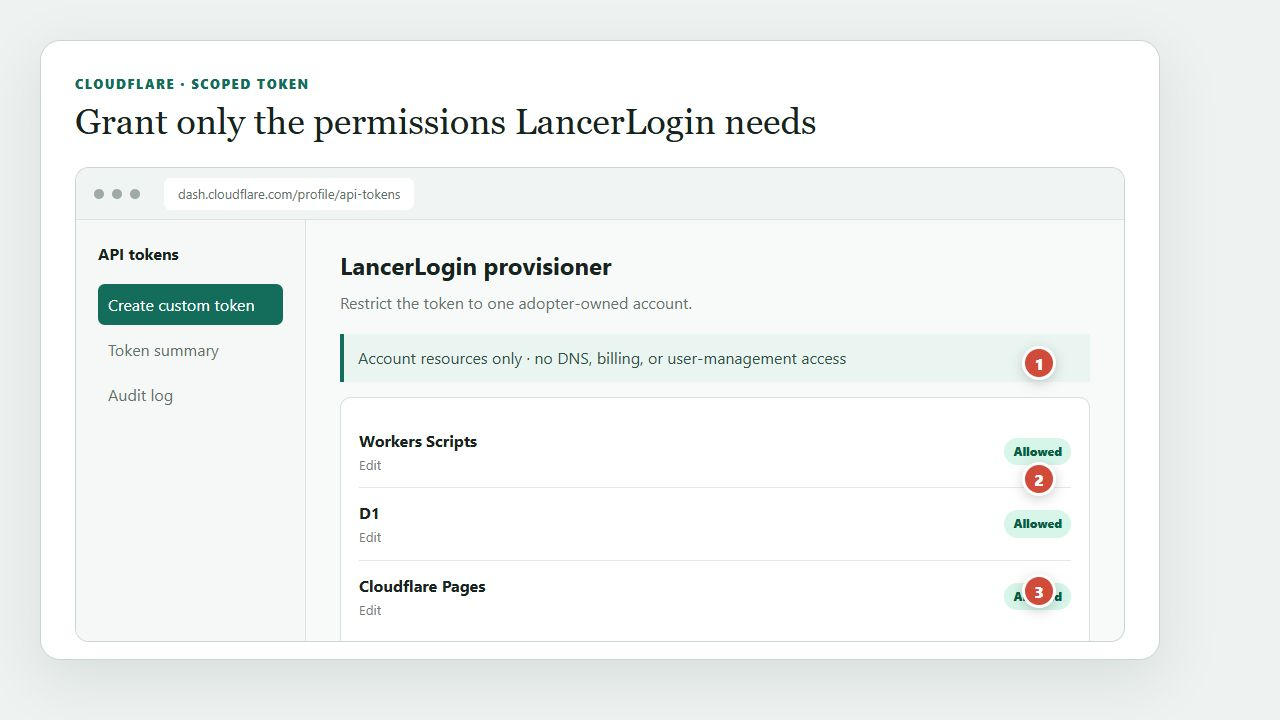
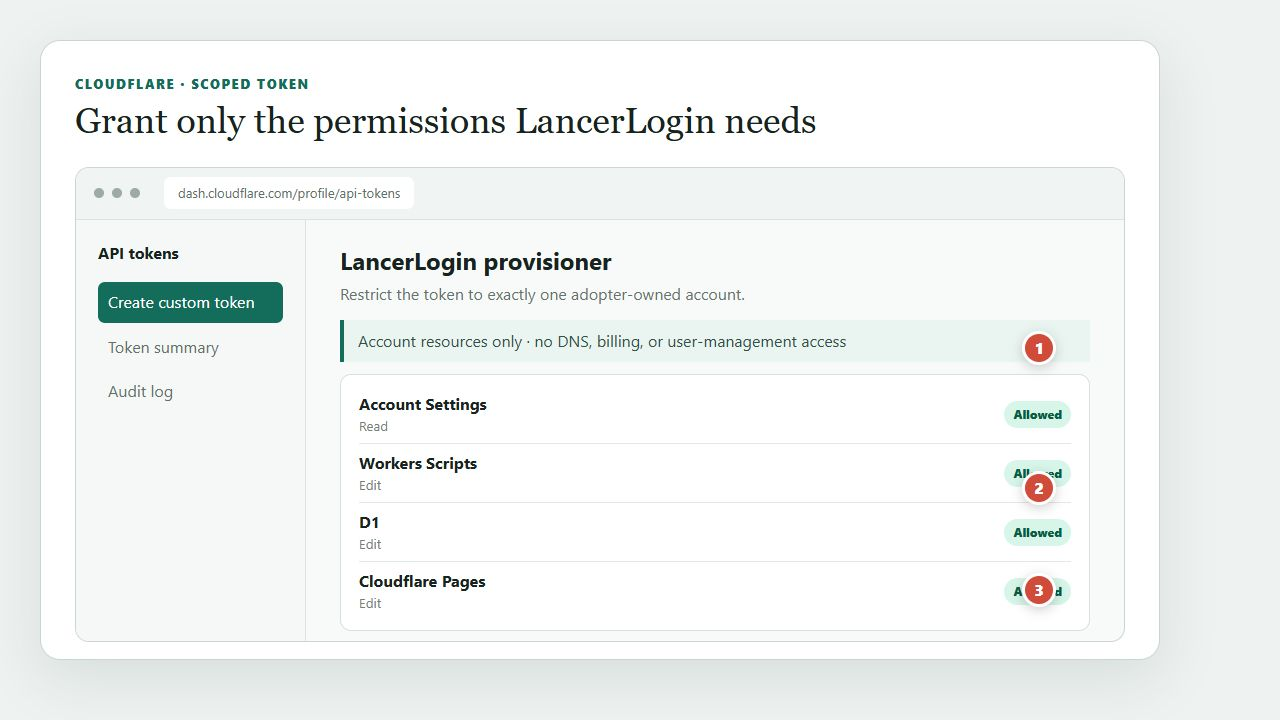
Harden adopter provisioning and release flow

diff --git a/apps/dashboard/src/setup-workspace.tsx b/apps/dashboard/src/setup-workspace.tsx
@@ -6,6 +6,7 @@ import { PrivacySettings } from "./privacy-settings";
 import { DataSettings } from "./data-settings";
 
 const apiBaseUrl = (import.meta.env.VITE_API_BASE_URL as string | undefined)?.replace(/\/$/, "") ?? "";
+const installerUrl = "https://github.com/isriah/LancerLogin/releases/latest/download/install-lancerlogin.sh";
 const steps = [
   ["branding", "Brand your installation", "Set the organization name, optional subtitle/logo, colors, and appearance."],
   ["roster", "Import your roster", "Add the people who can attend. You can update matching member IDs later."],
@@ -97,7 +98,7 @@ export function SetupWorkspace({ initialBranding, onBrandingChanged, onSignedOut
       <div className="workspace-grid">
         <form className="task-card" onSubmit={saveBranding}><p className="kicker">Branding</p><h2>Make it yours</h2><label>Organization name<input required maxLength={100} value={branding.organizationName} onChange={(event) => setBranding({ ...branding, organizationName: event.target.value })} /></label><label>Subtitle <span>(optional)</span><input maxLength={140} value={branding.subtitle ?? ""} onChange={(event) => setBranding({ ...branding, subtitle: event.target.value })} /></label><label>Logo image <span>(optional, stored in D1)</span><input type="file" accept="image/png,image/jpeg,image/webp" onChange={(event) => void chooseLogo(event.target.files?.[0])} /></label>{branding.logoData && <div className="logo-preview"><img src={branding.logoData} alt="Current organization logo preview" /><button type="button" onClick={() => setBranding({ ...branding, logoData: "" })}>Remove logo</button></div>}<div className="color-grid"><label>Primary<input type="color" value={branding.primaryColor} onChange={(event) => setBranding({ ...branding, primaryColor: event.target.value })} /></label><label>Secondary<input type="color" value={branding.secondaryColor} onChange={(event) => setBranding({ ...branding, secondaryColor: event.target.value })} /></label></div><label>Appearance<select value={branding.appearance} onChange={(event) => setBranding({ ...branding, appearance: event.target.value as Branding["appearance"] })}><option value="system">Follow device</option><option value="light">Light</option><option value="dark">Dark</option></select></label><button className="primary-button" type="submit">Save branding</button></form>
         <form className="task-card" onSubmit={importRoster}><p className="kicker">Roster</p><h2>Import members</h2><p>Paste CSV with the required headers. Matching member IDs are safely updated. Add an optional Discord user ID to link a member for pings and contests.</p><label>Roster CSV<textarea rows={9} value={rosterText} onChange={(event) => setRosterText(event.target.value)} /></label><button className="primary-button" type="submit">Validate and import</button><p className="record-count">{members.length} active roster record{members.length === 1 ? "" : "s"}</p></form>
-        <section className="task-card pairing-card"><p className="kicker">Kiosk pairing</p><h2>{activeKiosk ? "Replace the paired kiosk" : "Create a one-time code"}</h2><p>The code expires in 10 minutes and can be redeemed once. It never contains a fingerprint template or Cloudflare credential.</p>{activeKiosk && <div className="replacement-notice"><strong>{activeKiosk.name} is active.</strong><span>LancerLogin supports one kiosk. It remains active until the replacement code is redeemed.</span><label><input type="checkbox" checked={replaceKiosk} onChange={(event) => setReplaceKiosk(event.target.checked)} /> I understand redeeming this code disables {activeKiosk.name}.</label></div>}<label>Kiosk name<input maxLength={80} value={kioskName} onChange={(event) => setKioskName(event.target.value)} /></label><button className="primary-button" type="button" disabled={Boolean(activeKiosk) && !replaceKiosk} onClick={createPairingCode}>{activeKiosk ? "Create replacement code" : "Create pairing code"}</button>{pairing && <div className="pairing-code" aria-live="polite"><span>Enter in the Pi installer</span><strong>{pairing.code}</strong><small>Expires {new Date(pairing.expiresAt).toLocaleTimeString()}</small></div>}</section>
+        <section className="task-card pairing-card"><p className="kicker">Kiosk pairing</p><h2>{activeKiosk ? "Replace the paired kiosk" : "Create a one-time code"}</h2><p>Download the release installer on the Pi, preview it with <code>--dry-run</code>, then run it with <code>--install</code>. No Git clone or source edits are required.</p><a className="installer-link" href={installerUrl}>Download guided Pi installer</a><p>The code expires in 10 minutes and can be redeemed once. It never contains a fingerprint template or Cloudflare credential.</p>{activeKiosk && <div className="replacement-notice"><strong>{activeKiosk.name} is active.</strong><span>LancerLogin supports one kiosk. It remains active until the replacement code is redeemed.</span><label><input type="checkbox" checked={replaceKiosk} onChange={(event) => setReplaceKiosk(event.target.checked)} /> I understand redeeming this code disables {activeKiosk.name}.</label></div>}<label>Kiosk name<input maxLength={80} value={kioskName} onChange={(event) => setKioskName(event.target.value)} /></label><button className="primary-button" type="button" disabled={Boolean(activeKiosk) && !replaceKiosk} onClick={createPairingCode}>{activeKiosk ? "Create replacement code" : "Create pairing code"}</button>{pairing && <div className="pairing-code" aria-live="polite"><span>Enter in the Pi installer</span><strong>{pairing.code}</strong><small>Expires {new Date(pairing.expiresAt).toLocaleTimeString()}</small></div>}</section>
       </div>
     </>}
     <AttendanceWorkspace embedded />

diff --git a/docs-site/setup.html b/docs-site/setup.html
@@ -7,9 +7,9 @@
 <header class="page-header"><div><p class="eyebrow">Task 1</p><h1>Create your installation</h1><p>Nothing in this flow uses or discovers another LancerLogin installation.</p></div></header>
 <main id="main" class="page">
   <h2>1. Link your Cloudflare account through GitHub</h2>
-  <ol class="steps"><li>Create or sign in to a Cloudflare account owned by your organization.</li><li>In Cloudflare, create an API token restricted to Workers Scripts edit, D1 edit, and Pages edit for that account.</li><li>In your new LancerLogin repository, open <span class="ui-path">Settings <span>›</span> Secrets and variables <span>›</span> Actions</span> and add the token as <code>CLOUDFLARE_API_TOKEN</code>. Never paste it into the dashboard.</li><li>Open <span class="ui-path">Actions <span>›</span> Provision adopter installation <span>›</span> Run workflow</span>. Choose <strong>Create</strong>, enter a lowercase slug, and type <code>CREATE &lt;slug&gt;</code>.</li><li>The workflow discovers the account from the token, refuses resource-name collisions, then creates D1, the Worker, and Pages. Open the stable Pages dashboard link from the workflow summary.</li></ol>
+  <ol class="steps"><li>Create or sign in to a Cloudflare account owned by your organization.</li><li>In Cloudflare, create an API token restricted to exactly one account with Account Settings read plus Workers Scripts edit, D1 edit, and Pages edit.</li><li>In your new LancerLogin repository, open <span class="ui-path">Settings <span>›</span> Secrets and variables <span>›</span> Actions</span> and add the token as <code>CLOUDFLARE_API_TOKEN</code>. Never paste it into the dashboard.</li><li>Open <span class="ui-path">Actions <span>›</span> Provision adopter installation <span>›</span> Run workflow</span>. Choose <strong>Create</strong>, enter a lowercase slug, and type <code>CREATE &lt;slug&gt;</code>.</li><li>The workflow discovers the single account from the token, refuses ambiguous tokens and resource-name collisions, then creates D1, the Worker, and Pages. Open the stable Pages dashboard link from the workflow summary.</li></ol>
   <figure class="annotated"><img src="assets/github-template-setup.png" alt="Sanitized GitHub repository settings showing the Cloudflare secret, provisioning workflow, and ready result."><figcaption class="callouts"><div class="callout"><span>1</span><h3>Store one scoped secret</h3><p>Add the adopter-owned token as <code>CLOUDFLARE_API_TOKEN</code>; its value stays masked.</p></div><div class="callout"><span>2</span><h3>Run intentionally</h3><p>The manual workflow requires the resource slug and typed confirmation before it provisions.</p></div><div class="callout"><span>3</span><h3>Follow the summary</h3><p>The successful run reports the stable Pages URL and the resources it created.</p></div></figcaption></figure>
-  <figure class="annotated"><img src="assets/cloudflare-token-setup.png" alt="Sanitized Cloudflare custom API token screen showing only Workers Scripts, D1, and Pages edit permissions."><figcaption class="callouts"><div class="callout"><span>1</span><h3>Restrict the account</h3><p>Scope the token to the one Cloudflare account that will own this installation.</p></div><div class="callout"><span>2</span><h3>Allow the backend</h3><p>Workers Scripts and D1 edit permissions let the workflow deploy code and schema.</p></div><div class="callout"><span>3</span><h3>Allow the dashboard</h3><p>Pages edit permission creates and updates the adopter’s static dashboard project.</p></div></figcaption></figure>
+  <figure class="annotated"><img src="assets/cloudflare-token-setup.png" alt="Sanitized Cloudflare custom API token screen showing Account Settings read plus Workers Scripts, D1, and Pages edit permissions."><figcaption class="callouts"><div class="callout"><span>1</span><h3>Restrict and discover</h3><p>Account Settings read lets the Action identify the one account to which the token is restricted.</p></div><div class="callout"><span>2</span><h3>Allow the backend</h3><p>Workers Scripts and D1 edit permissions let the workflow deploy code and schema.</p></div><div class="callout"><span>3</span><h3>Allow the dashboard</h3><p>Pages edit permission creates and updates the adopter’s static dashboard project.</p></div></figcaption></figure>
   <figure class="annotated"><img src="assets/dashboard-cloudflare-setup.png" alt="LancerLogin local setup preview showing four Cloudflare linking steps and a resource-name plan."><span class="pin one" aria-hidden="true">1</span><span class="pin two" aria-hidden="true">2</span><span class="pin three" aria-hidden="true">3</span><figcaption class="callouts"><div class="callout"><span>1</span><h3>Adopter-owned account</h3><p>The workflow learns the account only from your scoped token.</p></div><div class="callout"><span>2</span><h3>Token stays in GitHub</h3><p>The browser never asks for or displays the Cloudflare token.</p></div><div class="callout"><span>3</span><h3>Preview names first</h3><p>The slug deterministically names the new Worker, D1 database, and Pages project.</p></div></figcaption></figure>
   <h2>2. Create the first Admin</h2>
   <p>Choose local username/password, Google OAuth, or both. Local passwords require at least 12 characters and are stored as salted scrypt hashes. The dashboard and API use one Pages origin through a generated proxy, so strict session cookies are not third-party cookies.</p>

diff --git a/docs-site/index.html b/docs-site/index.html
@@ -1,1 +1,1 @@
-<!doctype html><html lang="en"><head><meta charset="utf-8"><meta name="viewport" content="width=device-width,initial-scale=1"><title>LancerLogin documentation</title><meta name="description" content="Task-oriented setup and operations documentation for the LancerLogin community attendance kiosk."><link rel="stylesheet" href="styles.css"></head><body><a class="skip" href="#main">Skip to content</a><header class="site-header"><nav class="nav" aria-label="Documentation"><a href="index.html">LancerLogin Docs</a><a href="setup.html">Set up</a><a href="kiosk.html">Kiosk</a><a href="operations.html">Operate</a><a href="technical.html">Technical</a></nav></header><main id="main"><section class="hero"><div><p class="eyebrow">Community Edition · single kiosk</p><h1>Attendance infrastructure your organization controls</h1><p>Set up LancerLogin in your own GitHub and Cloudflare accounts, pair one Raspberry Pi kiosk, and keep fingerprint templates exclusively inside the R503 sensor.</p><div class="actions"><a class="button" href="setup.html">Start setup</a><a class="button secondary" href="privacy.html">Read the privacy boundary</a></div></div></section><div class="page"><h2>Choose what you need to do</h2><div class="task-grid"><article class="task-card"><span>1</span><h3>Create an installation</h3><p>Fork the template, create a scoped Cloudflare token, and run the account-discovering workflow.</p><a href="setup.html">Setup guide</a></article><article class="task-card"><span>2</span><h3>Install the kiosk</h3><p>Check supported Pi hardware, preview the installer, pair with a one-time code, and test the reader.</p><a href="kiosk.html">Kiosk guide</a></article><article class="task-card"><span>3</span><h3>Run attendance</h3><p>Create meetings, correct or excuse records, send configured notices, and export CSV.</p><a href="operations.html">Operations guide</a></article></div><section class="notice"><strong>Support is community best-effort</strong>Questions and responsible reports can be sent to <a href="mailto:robolancers@gmail.com">robolancers@gmail.com</a>. There is no response-time or uptime SLA.</section><h2>Release boundaries</h2><ul><li>One self-hosted kiosk per installation; multi-kiosk synchronization is not included.</li><li>No migration or connection to any earlier attendance installation.</li><li>No PDF or Google Sheets export; CSV and documented D1 backup/restore are supported.</li><li>Captive portals are manual/offline-first and advanced compatibility is documented but unsupported.</li></ul></div></main><footer><div>Apache-2.0 community software · <a href="privacy.html">Privacy</a> · <a href="technical.html">Technical reference</a></div></footer></body></html>
+<!doctype html><html lang="en"><head><meta charset="utf-8"><meta name="viewport" content="width=device-width,initial-scale=1"><title>LancerLogin documentation</title><meta name="description" content="Task-oriented setup and operations documentation for the LancerLogin community attendance kiosk."><link rel="stylesheet" href="styles.css"></head><body><a class="skip" href="#main">Skip to content</a><header class="site-header"><nav class="nav" aria-label="Documentation"><a href="index.html">LancerLogin Docs</a><a href="setup.html">Set up</a><a href="kiosk.html">Kiosk</a><a href="operations.html">Operate</a><a href="technical.html">Technical</a></nav></header><main id="main"><section class="hero"><div><p class="eyebrow">Community Edition · single kiosk</p><h1>Attendance infrastructure your organization controls</h1><p>Set up LancerLogin in your own GitHub and Cloudflare accounts, pair one Raspberry Pi kiosk, and keep fingerprint templates exclusively inside the R503 sensor.</p><div class="actions"><a class="button" href="setup.html">Start setup</a><a class="button secondary" href="privacy.html">Read the privacy boundary</a></div></div></section><div class="page"><h2>Choose what you need to do</h2><div class="task-grid"><article class="task-card"><span>1</span><h3>Create an installation</h3><p>Create a repository from the template, add a scoped Cloudflare token, and run the account-discovering workflow.</p><a href="setup.html">Setup guide</a></article><article class="task-card"><span>2</span><h3>Install the kiosk</h3><p>Check supported Pi hardware, preview the installer, pair with a one-time code, and test the reader.</p><a href="kiosk.html">Kiosk guide</a></article><article class="task-card"><span>3</span><h3>Run attendance</h3><p>Create meetings, correct or excuse records, send configured notices, and export CSV.</p><a href="operations.html">Operations guide</a></article></div><section class="notice"><strong>Support is community best-effort</strong>Questions and responsible reports can be sent to <a href="mailto:robolancers@gmail.com">robolancers@gmail.com</a>. There is no response-time or uptime SLA.</section><h2>Release boundaries</h2><ul><li>One self-hosted kiosk per installation; multi-kiosk synchronization is not included.</li><li>No migration or connection to any earlier attendance installation.</li><li>No PDF or Google Sheets export; CSV and documented D1 backup/restore are supported.</li><li>Captive portals are manual/offline-first and advanced compatibility is documented but unsupported.</li></ul></div></main><footer><div>Apache-2.0 community software · <a href="privacy.html">Privacy</a> · <a href="technical.html">Technical reference</a></div></footer></body></html>

diff --git a/apps/dashboard/src/main.tsx b/apps/dashboard/src/main.tsx
@@ -8,7 +8,7 @@ type CloudflareStep = { id: string; title: string; detail: string; action?: { la
 
 const cloudflareSteps: CloudflareStep[] = [
   { id: "account", title: "Create or sign in to Cloudflare", detail: "Use an account owned by your organization—not a developer’s personal deployment.", action: { label: "Open Cloudflare", href: "https://dash.cloudflare.com/sign-up" } },
-  { id: "token", title: "Create a scoped API token", detail: "Allow only Workers Scripts, D1, and Pages for the account you chose.", action: { label: "Create token", href: "https://dash.cloudflare.com/profile/api-tokens" } },
+  { id: "token", title: "Create a scoped API token", detail: "Allow Account Settings read plus Workers Scripts, D1, and Pages edit for exactly one account.", action: { label: "Create token", href: "https://dash.cloudflare.com/profile/api-tokens" } },
   { id: "secret", title: "Link the token through GitHub", detail: "Save it as CLOUDFLARE_API_TOKEN in this repository’s Actions secrets. LancerLogin never receives or displays it." },
   { id: "provision", title: "Run the setup workflow", detail: "GitHub Actions previews the new resource names before it creates anything." },
 ];

diff --git a/apps/dashboard/src/styles.css b/apps/dashboard/src/styles.css
@@ -140,6 +140,7 @@ legend { margin-bottom: .8rem; font-size: .86rem; font-weight: 800; }
 .pairing-code { display: grid; justify-items: center; gap: .35rem; padding: 1.2rem; margin-top: 1rem; color: var(--ink); background: var(--surface-soft); border-radius: .7rem; }
 .pairing-code span,.pairing-code small { color: var(--muted); font-size: .74rem; }
 .pairing-code strong { font-family: ui-monospace,SFMono-Regular,Consolas,monospace; font-size: clamp(1.8rem,5vw,3rem); letter-spacing: .1em; }
+.installer-link { display: inline-block; margin: 0 0 .6rem; color: var(--primary); font-weight: 800; }
 .replacement-notice { display: grid; gap: .45rem; padding: 1rem; margin: .75rem 0; border: 1px solid color-mix(in srgb,var(--danger) 45%,transparent); border-radius: .7rem; background: color-mix(in srgb,var(--danger) 8%,var(--surface)); }
 .replacement-notice span { color: var(--muted); }
 .replacement-notice label { display: grid; grid-template-columns: auto 1fr; align-items: start; gap: .6rem; }

diff --git a/docs/RELEASE-CHECKLIST.md b/docs/RELEASE-CHECKLIST.md
@@ -1,0 +1,26 @@
+# Community release requirement checklist
+
+This checklist maps the approved Community Release Plan to durable implementation and verification evidence. “Implemented” means the repository is ready for mock/local verification; it does not claim a real Cloudflare deployment or physical hardware test.
+
+| Requirement | Status | Evidence |
+| --- | --- | --- |
+| Standalone LancerLogin project, Apache-2.0, clean history, no migration or legacy connection | Implemented | `LICENSE`, `docs/DECISIONS.md`, sanitizer tests in `tests/foundation.test.mjs` |
+| Clubs, classrooms, teams, and arts groups; one kiosk only | Implemented | `README.md`, shared product policy, one-active-kiosk D1 constraint, replacement tests |
+| Pi 3B+/4/5, at least 1 GB; Waveshare 7-inch DSI LCD (E); R503; Wi-Fi/Ethernet | Implemented in guide/installer | `docs/KIOSK.md`, installer hardware checks, 800×480 browser visual; physical acceptance pending |
+| Fingerprint templates remain exclusively in the R503 | Implemented with mocked serial transport | R503 protocol, local slot mapping, schema/sanitizer tests; physical acceptance pending |
+| Browser-led GitHub template and adopter-owned Cloudflare setup | Implemented without a target account | Manual guarded workflow derives exactly one token-scoped account at runtime, creates Worker/D1/Pages, and outputs the Pages URL |
+| Guided Pi setup without clone or manual source edits; short-lived one-time pairing | Implemented | Dashboard installer link, version-matched checksummed installer, hashed ten-minute code, owner-only kiosk credential |
+| Local, Google, or both authentication modes | Implemented | First-Admin bootstrap, salted scrypt, OAuth state/claim validation, encrypted Google secret, local recovery tool |
+| Fixed Admin and Operator roles | Implemented | Worker route authorization plus dashboard policy and permission tests |
+| Resumable cross-Admin non-modal setup checklist | Implemented | Persisted setup progress for branding, roster, pairing, fingerprint test, test meeting, and attendance confirmation; complete state hides and can reopen |
+| Organization branding and light/dark/themed modes | Implemented | D1-backed name, subtitle, bounded local logo data, primary/secondary colors, appearance application |
+| Retention, CSV, deletion, and D1 backup/restore | Implemented | Authenticated CSV, typed-confirmation Admin deletion, `docs/BACKUP-RESTORE.md`; no PDF or Sheets |
+| Google, Resend, and full Discord administration/workflows | Implemented with mocked providers | Encrypted status/save/test/rotate/remove, attendance mail, linking, missing-member notices/contests, calendar mapping, persistent kiosk status |
+| Manual captive-portal handling and offline-first queue | Implemented/documented | Atomic local queue and task-oriented kiosk guide; advanced captive-portal compatibility remains unsupported |
+| Consent-gated allowlisted telemetry and plain privacy notice | Runtime implemented | Random install ID, release version, active kiosk count, scrubbed category, connection-derived metro; endpoint/operator/retention decision pending |
+| Accessible task-first public documentation with annotated visuals | Implemented locally | Dashboard, GitHub, Cloudflare, OAuth, kiosk, and integrations visuals; WCAG 2.2 A target; GitHub Pages enablement pending |
+| Community support without SLA | Implemented | `robolancers@gmail.com` is documented with explicit no-SLA language |
+
+## Verification boundary
+
+Automated tests use fake D1 bindings, provider responses, Cloudflare resource lists, and R503 transport. No provisioning workflow, provider delivery, Cloudflare mutation, Pi installation, or sensor operation has been performed from this project. Those acceptance steps require a fresh LancerLogin-only adopter target and must never use an existing attendance installation.

diff --git a/docs/KIOSK.md b/docs/KIOSK.md
@@ -2,7 +2,7 @@
 
 Supported hardware: Raspberry Pi 3B+, 4, or 5 with at least 1 GB RAM; Waveshare 7-inch DSI LCD (E); R503 fingerprint reader; Wi-Fi or Ethernet.
 
-The public release installer is launched from the dashboard and guides a local operator through OS prerequisites, display/UART checks, sensor test, and kiosk pairing. It downloads a fixed-version GitHub release artifact, verifies its SHA-256 checksum, and does not require a repository checkout or manual source changes. Run it with `--dry-run` first to preview every operation. `--install` requires root because it creates a dedicated `lancerlogin` system account, installs into `/opt/lancerlogin`, writes pairing state under `/var/lib/lancerlogin`, and enables the sandboxed systemd service.
+The public release installer is linked from the dashboard and guides a local operator through OS prerequisites, display/UART checks, sensor test, and kiosk pairing. Each tagged release stamps its own version into that installer, which then downloads only the matching immutable GitHub release artifact and verifies its SHA-256 checksum. It does not require a repository checkout or manual source changes. Run it with `--dry-run` first to preview every operation. `--install` requires root because it creates a dedicated `lancerlogin` system account, installs into `/opt/lancerlogin`, writes pairing state under `/var/lib/lancerlogin`, and enables the sandboxed systemd service.
 
 The Pi needs a 32-bit or 64-bit Raspberry Pi OS environment with Node.js 18 or newer available as `/usr/bin/node`. The release publishes separate `armv7` and `arm64` artifact names, though the JavaScript service payload is architecture-neutral. The installer does not configure a captive portal; connect Wi-Fi or Ethernet manually before setup.
 

diff --git a/docs/ARCHITECTURE.md b/docs/ARCHITECTURE.md
@@ -13,7 +13,7 @@ Raspberry Pi kiosk ── local service ── R503 fingerprint sensor
        └── pairing code / HTTPS┴── Worker API
 ```
 
-The dashboard is a static Pages application with an advanced-mode `_worker.js` proxy for `/api/*`. Browser sessions therefore remain first-party on the adopter's Pages origin while API work is forwarded to the separate Worker. The Worker owns authorization, onboarding state, data validation, encrypted secret handling, exports, and integration calls. D1 contains all organization-level data but no fingerprint templates. The Pi service owns sensor I/O, encrypted local pairing material, local slot-to-member mappings, offline scan queue, and kiosk display state.
+The dashboard is a static Pages application with an advanced-mode `_worker.js` proxy for `/api/*`. Browser sessions therefore remain first-party on the adopter's Pages origin while API work is forwarded to the separate Worker. The Worker owns authorization, onboarding state, data validation, encrypted secret handling, exports, and integration calls. D1 contains all organization-level data but no fingerprint templates. The Pi service owns sensor I/O, owner-only local pairing material, local slot-to-member mappings, offline scan queue, and kiosk display state.
 
 Worker persistence adapters scope every query and write to an installation ID. Their test double captures bound parameters so cross-installation access is rejected by contract before a real D1 binding is used.
 

diff --git a/docs/ROADMAP.md b/docs/ROADMAP.md
@@ -9,7 +9,7 @@ Each unit ended with targeted tests, full typecheck/build gates, a focused commi
 | 4 | Guided Pi installer, 800×480 touch UI, R503 match/enrollment protocol, local mappings, persistent offline queue, hashed pairing, kiosk health | Complete with injected serial transport and browser verification; physical hardware acceptance pending |
 | 5–6 | AES-GCM integration administration, Resend attendance mail, Discord linking/pings/contests/calendar/status | Complete with mocked provider responses |
 | 7 | Consent-gated telemetry runtime, privacy notice, CSV and D1 backup/restore | Runtime complete; maintainer collector endpoint decision pending |
-| 8 | Guarded adopter-owned GitHub/Cloudflare provisioning, release packaging, accessible GitHub Pages docs, annotated screenshot | Complete; no workflow executed by this project |
+| 8 | Guarded adopter-owned GitHub/Cloudflare provisioning, version-matched release packaging, dashboard-linked installer, accessible GitHub Pages docs, annotated dashboard/GitHub/Cloudflare/OAuth/kiosk/integration visuals | Complete; no provisioning workflow executed by this project |
 | 9 | Fresh adopter Cloudflare and Raspberry Pi acceptance | Pending an explicitly supplied standalone target |
 
 ## Release exclusions

diff --git a/docs/HANDOFF.md b/docs/HANDOFF.md
@@ -8,7 +8,7 @@
 - Local salted-scrypt and Google OAuth authentication; Admin/Operator enforcement; user administration; interactive local recovery.
 - Shared onboarding, branding, roster, explicit one-kiosk replacement, R503 in-sensor enrollment and slot-only matching, an 800×480 touch UI, atomic offline queue, meetings, attendance, reasoned corrections/excuses, CSV, typed-confirmation deletion, and D1 backup/restore.
 - Encrypted Google/Resend/Discord administration plus mocked/tested provider workflows. Consent-gated telemetry allowlists its payload and never reads raw IP into it.
-- Accessible, task-first static documentation with an annotated, browser-verified dashboard screenshot and community support contact.
+- Accessible, task-first static documentation with browser-verified annotated dashboard, GitHub, Cloudflare, OAuth, kiosk, and integration visuals plus the community support contact.
 
 ## Verification boundary
 

diff --git a/README.md b/README.md
@@ -19,7 +19,7 @@ npm.cmd run build
 
 Start an individual package with `npm run dev:api`, `npm run dev:dashboard`, or `npm run dev:kiosk`. The Worker starts unconfigured and cannot deploy or modify cloud resources through these commands.
 
-Read [the browser-led quick start](docs/BOOTSTRAPPING.md), [architecture](docs/ARCHITECTURE.md), [security model](docs/SECURITY.md), and [public task guides](docs-site/index.html).
+Read [the browser-led quick start](docs/BOOTSTRAPPING.md), [architecture](docs/ARCHITECTURE.md), [security model](docs/SECURITY.md), [release requirement checklist](docs/RELEASE-CHECKLIST.md), and [public task guides](docs-site/index.html).
 
 ## Support
 
